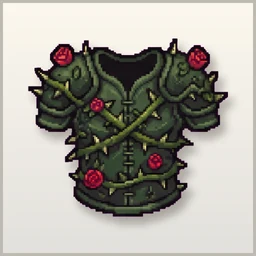
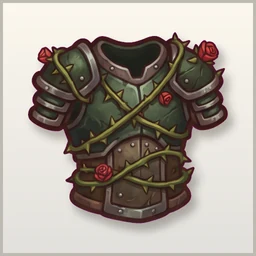
新アイテム3つの絵を手描き風に描き直し

diff --git a/index.html b/index.html
@@ -241,7 +241,7 @@ body .lib.grid3 .big{font-size:20px;line-height:1.2}.lib.grid3 .why{font-size:11
     <div class="row" id="cloudBtns"></div>
   </div>
   <div class="small" id="diag" style="margin:8px 0;color:var(--hp3);word-break:break-all"></div>
-  <div class="small" style="margin:4px 0 16px;text-align:center;color:var(--dim)">ばん 11030855</div>
+  <div class="small" style="margin:4px 0 16px;text-align:center;color:var(--dim)">ばん 11030912</div>
 </section>
 
 <!-- お店 -->
@@ -385,14 +385,14 @@ body .lib.grid3 .big{font-size:20px;line-height:1.2}.lib.grid3 .why{font-size:11
   window.addEventListener('error', function (e) { __showErr((e.message || 'エラー') + ' (' + String(e.filename || '').split('/').pop().split('?')[0] + ':' + e.lineno + ')'); });
   window.addEventListener('unhandledrejection', function (e) { __showErr('非同期のエラー：' + ((e.reason && (e.reason.message || e.reason.code)) || e.reason)); });
 </script>
-<script src="data.js?v=11030855"></script>
-<script src="stories.js?v=11030855"></script>
-<script src="engine.js?v=11030855"></script>
-<script src="collab.js?v=11030855"></script>
-<script src="battle.js?v=11030855"></script>
-<script src="multi.js?v=11030855"></script>
-<script src="store.js?v=11030855"></script>
-<script src="cloud.js?v=11030855"></script>
-<script src="app.js?v=11030855"></script>
+<script src="data.js?v=11030912"></script>
+<script src="stories.js?v=11030912"></script>
+<script src="engine.js?v=11030912"></script>
+<script src="collab.js?v=11030912"></script>
+<script src="battle.js?v=11030912"></script>
+<script src="multi.js?v=11030912"></script>
+<script src="store.js?v=11030912"></script>
+<script src="cloud.js?v=11030912"></script>
+<script src="app.js?v=11030912"></script>
 </body>
 </html>
